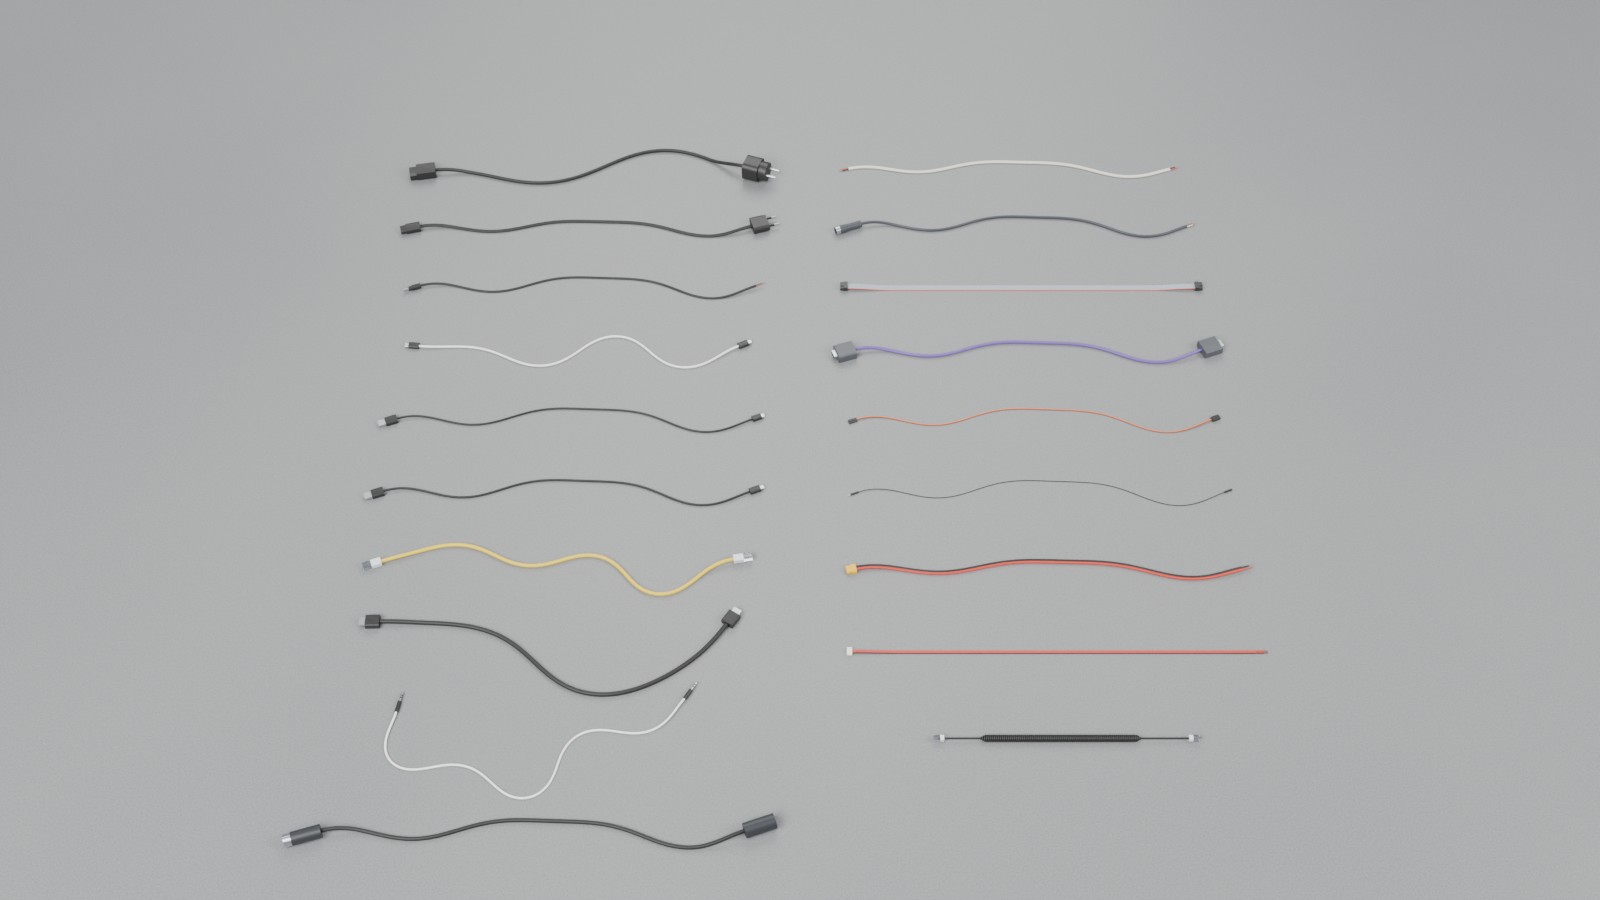
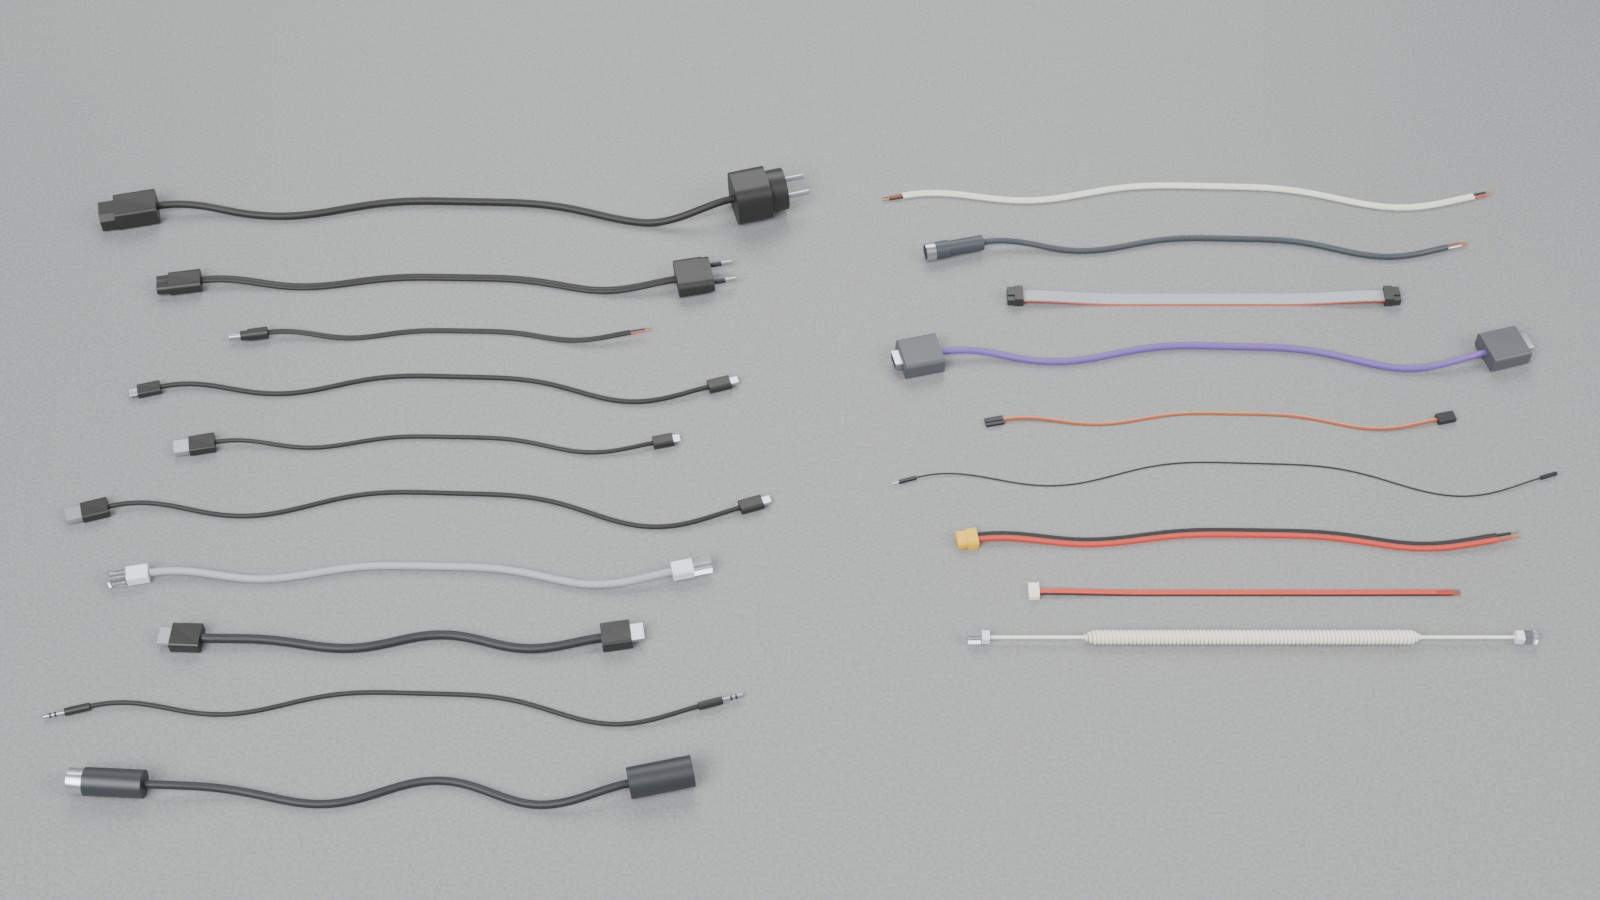
docs: hero image closer, cables 30 to 50 cm
The 19 cables lie across in two columns, each stacked by its own width (the
narrowest of a few draws), so none overlap; the rows spread to fill the
frame, and the camera frames the depth as foreshortened by its tilt. About
twice the former scale: the connectors show.

Claude-Session: https://claude.ai/code/session_011SKHgX3kzSwMGzHTuKSX34

diff --git a/scripts/readme_images.py b/scripts/readme_images.py
@@ -109,23 +109,52 @@ def blender(*args, samples: int = 96):
     subprocess.run([*BLENDER, *map(str, args)], check=True, stdout=subprocess.DEVNULL, env=env)
 
 
+HERO_LENGTHS = (0.50, 0.40, 0.30, 0.45, 0.35)  # 30 to 50 cm, in turn
+HERO_GAP = 0.012  # least free space between neighbouring cables, metres
+
+
 def hero(tmp: Path, out: Path, samples: int, size=(1600, 900)):
-    """Every preset: one cable each, in two columns, seen from above at an angle."""
+    """Every preset: one cable each, 30 to 50 cm long, lying across in two columns of up to ten,
+    seen from the front and above, close enough to see the connectors. Each cable is stacked by
+    its own width, so that no two overlap; of a few draws of each, the narrowest is kept."""
     keys = list(PRESETS)
-    args, cells = [], []
+    per_col = (len(keys) + 1) // 2
+    placed = []
     for k, key in enumerate(keys):
-        folder = write_outputs(_preset_scene(key, 0.62, same_length=True), tmp / "hero", physics=False)
-        usd = folder / f"filaire_{key}.usdc"
-        lo, hi = _bbox(usd)
-        col, row = divmod(k, (len(keys) + 1) // 2)
-        cx, cy = 0.78 * col, -0.15 * row  # cell centre
-        d = np.array([cx, cy, 0]) - (lo + hi) / 2
-        args += [usd, d[0], d[1], 0, 0]
-        cells.append((lo + d, hi + d))
+        best = None
+        for seed in range(1, 7):
+            scene = _preset_scene(key, HERO_LENGTHS[k % len(HERO_LENGTHS)], seed=seed, same_length=True)
+            folder = write_outputs(scene, tmp / "hero" / f"{key}_{seed}", physics=False)
+            usd = folder / f"filaire_{key}.usdc"
+            lo, hi = _bbox(usd)
+            if best is None or hi[1] - lo[1] < best[2][1] - best[1][1]:
+                best = (usd, lo, hi)
+        placed.append(best)
+    cols = [placed[:per_col], placed[per_col:]]
+    col_w = [max(h[0] - lo[0] for _, lo, h in col) for col in cols]
+    v = np.array([0.0, -0.75, 1.0])
+    v /= np.linalg.norm(v)
+    lens, aspect, fill = 50.0, size[0] / size[1], 1.04
+    # spread the rows to fill the frame's height: the width (two columns) sets the zoom
+    width = col_w[0] + col_w[1] + 0.06
+    tallest = max(sum(h[1] - lo[1] for _, lo, h in col) for col in cols)
+    gap = max(HERO_GAP, (width / aspect / v[2] * 0.72 - tallest) / (per_col - 1))
+    args, cells = [], []
+    for c, col in enumerate(cols):
+        x = -col_w[0] / 2 - 0.03 if c == 0 else col_w[1] / 2 + 0.03  # column centres, 6 cm apart
+        y = 0.0
+        for usd, lo, hi in col:
+            d = np.array([x - (lo[0] + hi[0]) / 2, y - hi[1], 0.0])
+            args += [usd, d[0], d[1], 0, 0]
+            cells.append((lo + d, hi + d))
+            y -= hi[1] - lo[1] + gap
     lo = np.min([c[0] for c in cells], axis=0)
     hi = np.max([c[1] for c in cells], axis=0)
-    cam = _camera_for(lo, hi, direction=(0.0, -0.75, 1.0), lens=40, aspect=size[0] / size[1], fill=1.05)
-    blender("hero", out, *size, *cam, 40, *args, samples=samples)
+    # frame what the camera sees: the depth foreshortened by the view's tilt
+    seen = max(hi[0] - lo[0], (hi[1] - lo[1]) * v[2] * aspect)
+    dist = seen * fill / 2 / (18.0 / lens)
+    c = (lo + hi) / 2
+    blender("hero", out, *size, *(c + dist * v), *c, lens, *args, samples=samples)
 
 
 def _tile(tmp: Path, name: str, args: list, cam, samples: int, size=(640, 480)) -> Path:

diff --git a/README.md b/README.md
@@ -41,7 +41,7 @@ shape, measured outputs, honest limits.
 
 ![Cables generated by Filaire, rendered in Blender](https://raw.githubusercontent.com/drscaon/filaire/main/docs/images/hero.jpg)
 
-*One cable of each of the 19 presets, with its usual ends (left: power cords
+*One cable of each of the 19 presets, 30 to 50 cm long, with its usual ends (left: power cords
 C13 and C7, DC barrel, USB-C, USB-A to C, USB-A to Micro-B, Ethernet, HDMI,
 3.5 mm jack, XLR microphone cable; right: speaker wire, M12 sensor cable, IDC
 ribbon, CAN bus, servo lead, jumper wire, battery lead, balance lead, coiled

diff --git a/CHANGELOG.md b/CHANGELOG.md
@@ -30,6 +30,8 @@ and the project uses [Semantic Versioning](https://semver.org/).
 
 ### Changed
 
+- README hero image: the cables 30 to 50 cm long, in two columns stacked by their
+  own width, seen from closer (about twice the scale), so the connectors show.
 - MuJoCo drop check: the same stiff contacts as the multi-cable scene (time constant
   max(4 dt, 2 ms) instead of MuJoCo's 20 ms). The light plugs of thin leads (a few
   grams per metre) rested up to 2 mm into the floor with the default.
